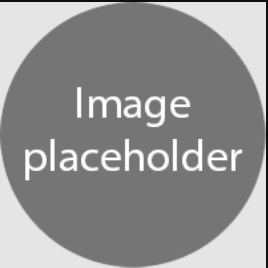
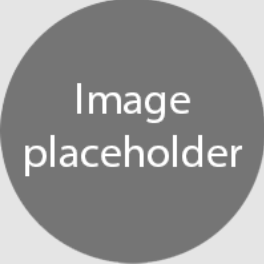
Fixat med css till en början

diff --git a/style.css b/style.css
@@ -1,0 +1,134 @@
+* {
+margin: 0;
+padding: 0;
+box-sizing: border-box;
+}
+
+body {
+font-family: Arial, sans-serif;
+}
+
+#wrapper {
+max-width: 1200px;
+margin: auto;
+}
+
+nav {
+background: #333;
+}
+
+nav ul {
+list-style: none;
+display: flex;
+align-items: center;
+}
+
+nav li {
+padding: 15px;
+}
+
+nav a {
+color: white;
+text-decoration: none;
+}
+
+#style-picker {
+padding: 5px;
+}
+
+header article {
+display: flex;
+align-items: center;
+justify-content: space-between;
+padding: 20px;
+}
+
+header img {
+width: 100px;
+}
+
+.content {
+display: flex;
+align-items: center;
+gap: 30px;
+padding: 30px 20px;
+border-top: 8px solid #ccc;
+}
+
+.content:nth-child(even) {
+flex-direction: row-reverse;
+}
+
+.content img {
+width: 180px;
+height: 180px;
+border-radius: 50%;
+}
+
+.content section {
+flex: 1;
+}
+
+footer {
+    text-align: center;
+    padding: 20px;
+    background: #333;
+    color: white;}
+
+body.standard {
+background: white;
+}
+
+body.blue {
+background: #dbeeff;
+}
+
+body.red {
+background: #ffe0e0;
+}
+
+body.green {
+background: #e0ffe0;
+}
+
+#menu-btn {
+    display: none;
+  }
+  
+@media (max-width: 767px) {
+  
+    #menu-btn {
+      display: block;
+      background: #333;
+      color: white;
+      padding: 15px;
+      cursor: pointer;
+    }
+  
+    nav ul {
+      display: none;
+      flex-direction: column;
+    }
+  
+    nav ul.show {
+      display: flex;
+    }
+  
+    .content {
+      flex-direction: column !important;
+      text-align: center;
+    }
+  
+    header article {
+      flex-direction: column;
+      text-align: center;
+    }
+  }
+
+@media (min-width: 768px) and (max-width: 999px) {
+
+    .content img {
+      width: 140px;
+      height: 140px;
+    }
+  }

diff --git a/index.html b/index.html
@@ -38,7 +38,7 @@
           <h1>Modul 1</h1>
           <aside>
             <h2>Komplettering</h2>
-            <p>Anton Tibblin</p>
+            <p>Nikola Miskovic</p>
           </aside>
         </article>
       </header>
@@ -72,16 +72,6 @@
             <h2>Example content</h2>
             <p>
               Lorem ipsum dolor sit amet consectetur adipisicing elit. Commodi, mollitia, nostrum laboriosam error quae.
-            </p>
-          </section>
-        </article>
-      
-        <article class="content">
-          <img src="images/placeholder.jpg" alt="Placeholder">
-          <section>
-            <h2>Example content</h2>
-            <p>
-              Lorem ipsum dolor sit amet consectetur adipisicing elit. Exercitationem, molestiae, consequuntur.
             </p>
           </section>
         </article>